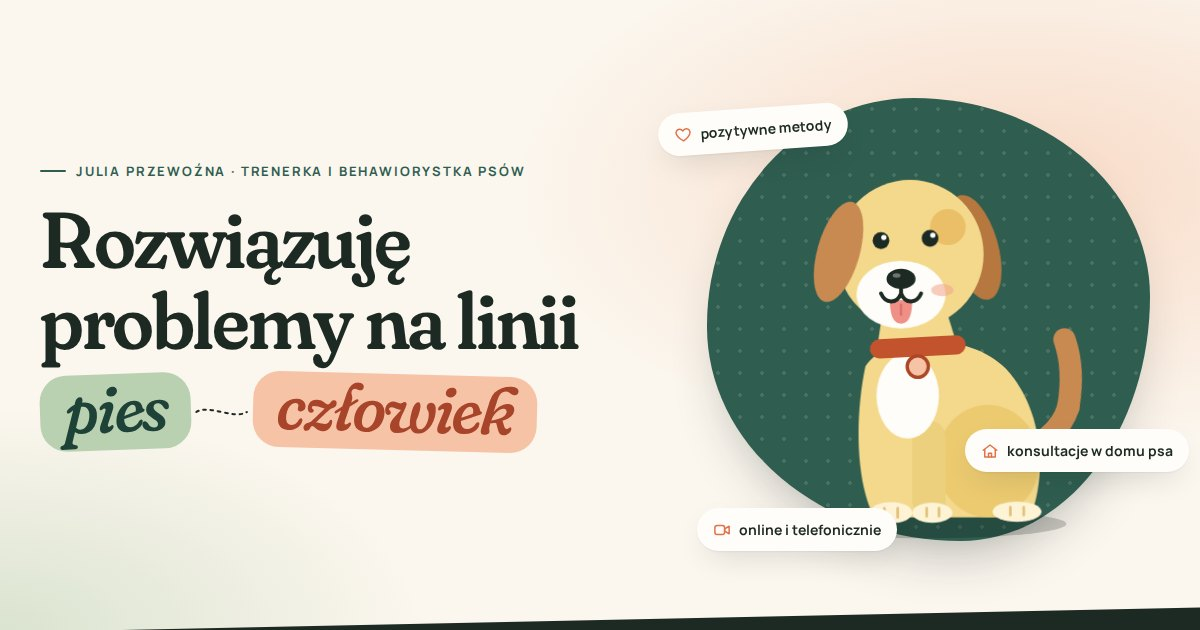
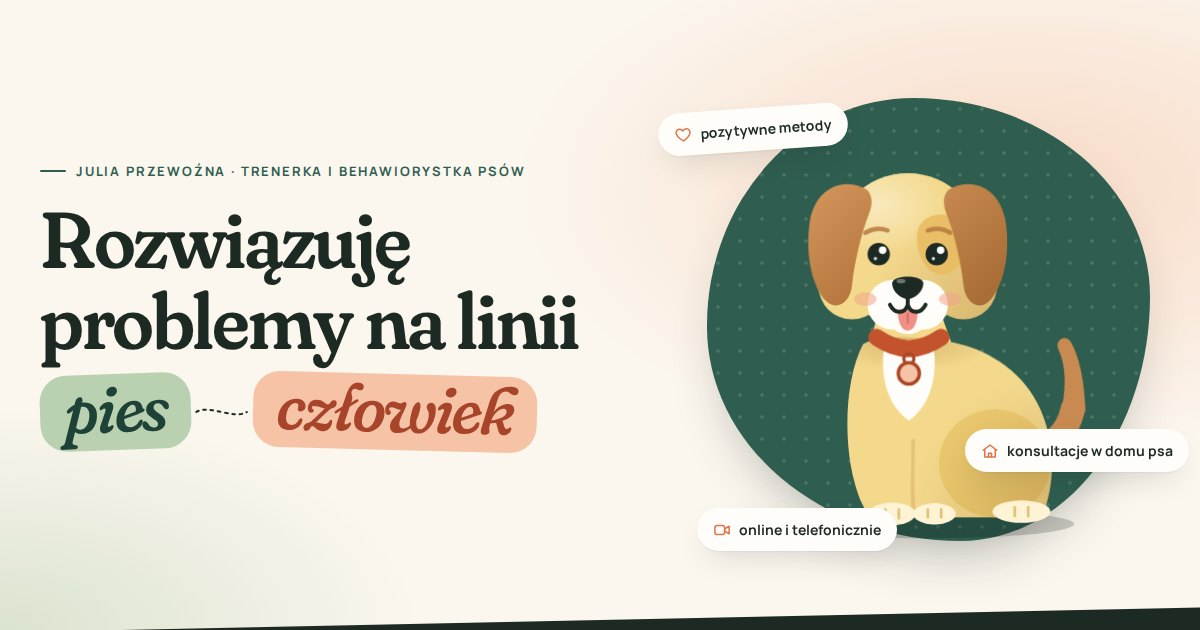
Redraw the hero dog following cute character design principles
Researched mascot/character construction (baby schema, shape language,
flat-vector shading) and rebuilt the illustration on the same animation rig:
- Plumper head with cheek fluff; bigger eyes set lower with double highlights
  and soft brows; rounded-triangle nose; muzzle from two puffs and a chin
- Floppy teardrop ears hanging from the top of the head, with gradients
- One light source (top-left): soft radial shading on the head and body,
  a shadow under the head and a forehead highlight
- Rounded collar band with a ring for the tag, shorter bib-shaped chest patch,
  tapered front legs, correct layering of leg and haunch
- Tapered, sickle-shaped tail tip

Claude-Session: https://claude.ai/code/session_01NNviqpEBqkR5eutCaCypMu

diff --git a/index.html b/index.html
@@ -137,45 +137,70 @@
         <div class="hero__art reveal" aria-hidden="true">
           <div class="hero__blob"></div>
           <svg class="dog" viewBox="0 0 400 420" role="img">
-            <ellipse class="dog__shadow" cx="205" cy="392" rx="128" ry="13"/>
+            <defs>
+              <radialGradient id="dog-g-shade" cx="50%" cy="50%" r="50%"><stop offset="0" stop-color="#8a5418" stop-opacity=".26"/><stop offset=".55" stop-color="#8a5418" stop-opacity=".12"/><stop offset="1" stop-color="#8a5418" stop-opacity="0"/></radialGradient>
+              <linearGradient id="dog-g-ear" x1="0" y1="0" x2=".5" y2="1"><stop offset="0" stop-color="#d4975c"/><stop offset="1" stop-color="#b8783f"/></linearGradient>
+              <linearGradient id="dog-g-ear-far" x1="0" y1="0" x2=".5" y2="1"><stop offset="0" stop-color="#c88a50"/><stop offset="1" stop-color="#a96d38"/></linearGradient>
+              <radialGradient id="dog-g-light" cx="50%" cy="50%" r="50%"><stop offset="0" stop-color="#fff" stop-opacity=".42"/><stop offset="1" stop-color="#fff" stop-opacity="0"/></radialGradient>
+              <clipPath id="dog-clip-head"><circle cx="190" cy="148" r="68"/><circle cx="140" cy="180" r="30"/><circle cx="240" cy="180" r="30"/></clipPath>
+              <clipPath id="dog-clip-body"><path d="M150 232 C 134 262, 132 316, 142 354 C 146 370, 152 382, 158 386 L 310 386 C 322 360, 324 318, 306 284 C 290 254, 260 236, 228 230 C 200 226, 168 222, 150 232 Z"/><ellipse cx="268" cy="338" rx="50" ry="48"/></clipPath>
+            </defs>
+            <ellipse class="dog__shadow" cx="208" cy="392" rx="132" ry="13"/>
             <g class="dog__jump">
               <g class="dog__breathe">
                 <g class="dog__tail">
-                  <path d="M282 330 C 310 324, 328 308, 334 288"/>
-                  <g class="dog__tail-tip"><path d="M334 288 C 340 268, 342 246, 338 228"/></g>
+                  <path d="M292 334 C 318 326, 334 310, 338 290"/>
+                  <g class="dog__tail-tip">
+                    <path class="dog__tail-fill" d="M327 293 C 334 272, 338 254, 333 236 C 330 227, 341 222, 345 231 C 352 250, 351 274, 349 293 Z"/>
+                  </g>
                 </g>
-                <path class="dog__neck" d="M168 200 L224 200 L240 252 L160 252 Z"/>
-                <path class="dog__body" d="M152 252 C 142 300, 144 356, 160 386 L 300 386 C 316 344, 310 288, 278 254 C 248 222, 172 220, 152 252 Z"/>
-                <ellipse class="dog__haunch" cx="262" cy="336" rx="46" ry="50"/>
-                <ellipse class="dog__paw dog__paw--back" cx="288" cy="381" rx="22" ry="9"/>
-                <rect class="dog__leg dog__leg--back" x="194" y="300" width="30" height="86" rx="15"/>
-                <rect class="dog__leg" x="160" y="300" width="31" height="86" rx="15.5"/>
-                <ellipse class="dog__paw" cx="175" cy="382" rx="19" ry="9.5"/>
-                <ellipse class="dog__paw dog__paw--back" cx="212" cy="382" rx="18" ry="9"/>
-                <path class="dog__toes" d="M169 378 L169 386 M181 378 L181 386 M207 378 L207 385 M218 378 L218 385 M282 377 L282 384 M294 377 L294 384"/>
-                <ellipse class="dog__chest" cx="190" cy="278" rx="28" ry="38"/>
-                <rect class="dog__collar" x="156" y="226" width="86" height="17" rx="8.5" transform="rotate(-3 199 234)"/>
-                <circle class="dog__tag" cx="199" cy="252" r="9.5"/>
+                <path class="dog__neck" d="M164 200 L 218 200 L 236 250 L 152 250 Z"/>
+                <path class="dog__body" d="M150 232 C 134 262, 132 316, 142 354 C 146 370, 152 382, 158 386 L 310 386 C 322 360, 324 318, 306 284 C 290 254, 260 236, 228 230 C 200 226, 168 222, 150 232 Z"/>
+                <path class="dog__leg dog__leg--back" d="M198 300 C 196 330, 197 360, 199 382 L 227 382 C 229 360, 230 330, 228 300 Z"/>
+                <ellipse class="dog__haunch" cx="268" cy="338" rx="50" ry="48"/>
+                <g clip-path="url(#dog-clip-body)">
+                  <circle class="dog__shade" cx="320" cy="390" r="130"/>
+                  <ellipse class="dog__shade" cx="191" cy="230" rx="78" ry="26"/>
+                </g>
+                <ellipse class="dog__paw dog__paw--back" cx="292" cy="381" rx="26" ry="10"/>
+                <path class="dog__leg-gap" d="M195 318 C 194 340, 194 362, 195 378"/>
+                <path class="dog__leg" d="M160 296 C 158 328, 159 360, 161 382 L 191 382 C 193 360, 194 328, 192 296 Z"/>
+                <ellipse class="dog__paw" cx="176" cy="383" rx="21" ry="10"/>
+                <ellipse class="dog__paw dog__paw--back" cx="214" cy="383" rx="19" ry="9.5"/>
+                <path class="dog__toes" d="M170 379 L170 387 M182 379 L182 387 M208 379 L208 386 M220 379 L220 386 M286 377 L286 385 M298 377 L298 385"/>
+                <path class="dog__chest" d="M170 228 C 164 256, 170 286, 191 300 C 212 286, 218 256, 212 228 Z"/>
+                <path class="dog__collar" d="M162 226 Q 191 246 220 226"/>
+                <circle class="dog__ring" cx="191" cy="245" r="4.5"/>
+                <circle class="dog__tag" cx="191" cy="258" r="9.5"/>
                 <g class="dog__head">
-                  <g class="dog__ear-flop dog__ear-flop--back"><g class="dog__ear dog__ear--back"><ellipse cx="250" cy="146" rx="21" ry="48" transform="rotate(-16 250 146)"/></g></g>
-                  <circle class="dog__skull" cx="192" cy="152" r="66"/>
-                  <g class="dog__ear-flop dog__ear-flop--front"><g class="dog__ear dog__ear--front"><ellipse cx="128" cy="150" rx="19" ry="46" transform="rotate(16 128 150)"/></g></g>
-                  <ellipse class="dog__muzzle" cx="184" cy="188" rx="40" ry="30"/>
-                  <g class="dog__tongue"><path d="M174 193 C 174 208, 178 214, 184 214 C 190 214, 194 208, 194 193 Z"/><path class="dog__tongue-line" d="M184 197 L184 206"/></g>
-                  <path class="dog__mouth" d="M184 180 L184 187 M166 187 C 170 196, 180 197, 184 187 C 188 197, 198 196, 202 187"/>
-                  <ellipse class="dog__nose" cx="184" cy="174" rx="13" ry="9"/>
-                  <ellipse class="dog__nose-shine" cx="180" cy="171" rx="3.5" ry="2"/>
-                  <circle class="dog__spot" cx="226" cy="128" r="16"/>
-                  <ellipse class="dog__blush" cx="221" cy="184" rx="10" ry="5.5"/>
+                  <circle class="dog__skull" cx="190" cy="148" r="68"/>
+                  <circle class="dog__skull" cx="140" cy="180" r="30"/>
+                  <circle class="dog__skull" cx="240" cy="180" r="30"/>
+                  <g clip-path="url(#dog-clip-head)">
+                    <circle class="dog__shade" cx="262" cy="214" r="110"/>
+                    <ellipse class="dog__light" cx="164" cy="108" rx="62" ry="44"/>
+                  </g>
+                  <path class="dog__spot" d="M200 128 C 206 114, 232 112, 240 128 C 248 144, 240 168, 222 170 C 204 172, 194 144, 200 128 Z"/>
+                  <g class="dog__muzzle"><circle cx="176" cy="197" r="22"/><circle cx="204" cy="197" r="22"/><ellipse cx="190" cy="209" rx="18" ry="14"/></g>
+                  <ellipse class="dog__blush" cx="152" cy="192" rx="10" ry="6"/>
+                  <ellipse class="dog__blush" cx="228" cy="192" rx="10" ry="6"/>
+                  <g class="dog__tongue"><path d="M181 201 C 181 214, 185 220, 190 220 C 195 220, 199 214, 199 201 Z"/><path class="dog__tongue-line" d="M190 205 L190 213"/></g>
+                  <path class="dog__mouth" d="M190 191 L190 197 M174 197 C 178 205, 187 206, 190 197 C 193 206, 202 205, 206 197"/>
+                  <path class="dog__nose" d="M176 178 C 176 170, 204 170, 204 178 C 204 186, 195 192, 190 192 C 185 192, 176 186, 176 178 Z"/>
+                  <ellipse class="dog__nose-shine" cx="184" cy="176" rx="4" ry="2"/>
+                  <path class="dog__brows" d="M152 133 Q162 127 172 131 M208 131 Q218 127 228 133"/>
                   <g class="dog__eyes"><g class="dog__pupils">
-                    <circle cx="166" cy="140" r="7.5"/><circle cx="210" cy="138" r="7.5"/>
-                    <circle class="dog__shine" cx="168.5" cy="137.2" r="2.4"/><circle class="dog__shine" cx="212.5" cy="135.2" r="2.4"/>
+                    <circle cx="164" cy="152" r="10"/><circle cx="216" cy="152" r="10"/>
+                    <circle class="dog__shine" cx="167.5" cy="148.5" r="3.4"/><circle class="dog__shine" cx="219.5" cy="148.5" r="3.4"/>
+                    <circle class="dog__shine dog__shine--small" cx="161" cy="156" r="1.5"/><circle class="dog__shine dog__shine--small" cx="213" cy="156" r="1.5"/>
                   </g></g>
-                  <path class="dog__lids" d="M157 141 Q166 148 175 141 M201 139 Q210 146 219 139"/>
+                  <path class="dog__lids" d="M153 152 Q164 160 175 152 M205 152 Q216 160 227 152"/>
+                  <g class="dog__ear-flop dog__ear-flop--back"><g class="dog__ear dog__ear--back"><path d="M232 92 C 252 84, 274 96, 278 124 C 282 152, 276 180, 264 193 C 254 203, 242 196, 240 180 C 238 160, 232 134, 224 114 C 220 102, 224 94, 232 92 Z"/></g></g>
+                  <g class="dog__ear-flop dog__ear-flop--front"><g class="dog__ear dog__ear--front"><path d="M148 92 C 128 84, 106 96, 102 124 C 98 152, 104 180, 116 193 C 126 203, 138 196, 140 180 C 142 160, 148 134, 156 114 C 160 102, 156 94, 148 92 Z"/></g></g>
                 </g>
               </g>
             </g>
-            <g class="dog__zzz"><text x="256" y="100">z</text><text x="284" y="70">z</text><text x="318" y="36">Z</text></g>
+            <g class="dog__zzz"><text x="258" y="96">z</text><text x="284" y="66">z</text><text x="316" y="36">Z</text></g>
           </svg>
           <div class="bark">Hau!</div>
           <div class="sticker sticker--a"><svg viewBox="0 0 24 24"><use href="#i-heart"/></svg>pozytywne metody</div>

diff --git a/styles.css b/styles.css
@@ -266,12 +266,19 @@ body.menu-open { overflow: hidden; }
 .dog__shadow { fill: rgba(0,0,0,.18); }
 .dog__body, .dog__leg, .dog__skull, .dog__neck { fill: var(--butter); }
 .dog__haunch { fill: #ecca70; }
-.dog__leg--back { fill: #ecd07d; }
+.dog__leg--back { fill: var(--butter); }
+.dog__leg-gap { fill: none; stroke: #9a5f1c; stroke-width: 3.5; stroke-linecap: round; opacity: .18; }
 .dog__paw--back { fill: #f7e6bd; }
 .dog__toes { fill: none; stroke: #e2c27a; stroke-width: 2.4; stroke-linecap: round; }
 .dog__chest, .dog__muzzle { fill: var(--paper); }
-.dog__ear, .dog__ear ellipse { fill: #c98a52; }
-.dog__ear--back ellipse { fill: #b77840; }
+.dog__ear path { fill: url(#dog-g-ear); }
+.dog__ear--back path { fill: url(#dog-g-ear-far); }
+.dog__shade { fill: url(#dog-g-shade); }
+.dog__light { fill: url(#dog-g-light); }
+.dog__brows { fill: none; stroke: #b77840; stroke-width: 4; stroke-linecap: round; opacity: .85; }
+.dog__ring { fill: none; stroke: var(--accent-deep); stroke-width: 3; }
+.dog__tail-fill { fill: #c98a52; }
+.dog__shine--small { opacity: .8; }
 .dog__spot { fill: #e9bb63; opacity: .9; }
 .dog__nose { fill: var(--ink); }
 .dog__eyes circle { fill: var(--ink); }
@@ -295,26 +302,26 @@ body.menu-open { overflow: hidden; }
 .dog__tongue path { fill: #ef8f86; }
 .dog__tongue .dog__tongue-line { fill: none; stroke: #d9706a; stroke-width: 2; stroke-linecap: round; }
 .dog__nose-shine { fill: #fff; opacity: .35; }
-.dog__collar { fill: var(--accent); }
+.dog__collar { fill: none; stroke: var(--accent); stroke-width: 15; stroke-linecap: round; }
 .dog__tag { fill: var(--peach); stroke: var(--accent-deep); stroke-width: 3; }
-.dog__tail path { fill: none; stroke: #c98a52; stroke-width: 20; stroke-linecap: round; }
-.dog__tail { transform-origin: 282px 330px; transform-box: view-box; animation: wag 520ms ease-in-out infinite alternate; }
+.dog__tail > path { fill: none; stroke: #c98a52; stroke-width: 22; stroke-linecap: round; }
+.dog__tail { transform-origin: 292px 334px; transform-box: view-box; animation: wag 520ms ease-in-out infinite alternate; }
 /* końcówka ogona spóźnia się o ćwierć ruchu – efekt bicza (follow-through) */
-.dog__tail-tip { transform-origin: 334px 288px; transform-box: view-box; animation: wagTip 520ms ease-in-out 120ms infinite alternate; }
+.dog__tail-tip { transform-origin: 338px 290px; transform-box: view-box; animation: wagTip 520ms ease-in-out 120ms infinite alternate; }
 @keyframes wagTip { from { transform: rotate(-12deg); } to { transform: rotate(14deg); } }
 .hero__art.is-excited .dog__tail, .hero__art.is-excited .dog__tail-tip { animation-duration: 230ms; }
 .hero__art.is-sleepy .dog__tail, .hero__art.is-sleepy .dog__tail-tip { animation-duration: 1800ms; }
 
 /* oddech: całe ciało lekko „rośnie” od podłogi */
-.dog__jump, .dog__breathe { transform-box: view-box; transform-origin: 205px 388px; }
+.dog__jump, .dog__breathe { transform-box: view-box; transform-origin: 208px 388px; }
 .dog__breathe { animation: breathe 3600ms ease-in-out infinite; }
 @keyframes breathe { 0%, 100% { transform: scale(1, 1); } 50% { transform: scale(1.006, 1.016); } }
 .hero__art.is-sleepy .dog__breathe { animation-duration: 5200ms; }
 .dog__shadow { transform-box: fill-box; transform-origin: center; }
 
-.dog__ear-flop--front { transform-origin: 140px 106px; transform-box: view-box; }
-.dog__ear-flop--back { transform-origin: 240px 104px; transform-box: view-box; }
-.dog__ear--back { transform-origin: 240px 104px; transform-box: view-box; }
+.dog__ear-flop--front { transform-origin: 146px 96px; transform-box: view-box; }
+.dog__ear-flop--back { transform-origin: 234px 96px; transform-box: view-box; }
+.dog__ear--back { transform-origin: 238px 96px; transform-box: view-box; }
 
 /* sen po dłuższej bezczynności */
 .dog__lids { fill: none; stroke: var(--ink); stroke-width: 3.5; stroke-linecap: round; opacity: 0; transition: opacity 250ms ease; }
@@ -333,11 +340,11 @@ body.menu-open { overflow: hidden; }
 /* poza ekranem nic się nie rusza */
 .hero__art.is-paused, .hero__art.is-paused * { animation-play-state: paused !important; }
 @keyframes wag { from { transform: rotate(-14deg); } to { transform: rotate(16deg); } }
-.dog__eyes { transform-origin: 188px 139px; transform-box: view-box; }
-.dog__head { transform-origin: 192px 220px; transform-box: view-box; will-change: transform; }
-.dog__ear--front { transform-origin: 140px 104px; transform-box: view-box; animation: ear 6s ease-in-out infinite; }
+.dog__eyes { transform-origin: 190px 152px; transform-box: view-box; }
+.dog__head { transform-origin: 190px 224px; transform-box: view-box; will-change: transform; }
+.dog__ear--front { transform-origin: 142px 96px; transform-box: view-box; animation: ear 6s ease-in-out infinite; }
 @keyframes ear { 0%, 80%, 100% { transform: rotate(0); } 86% { transform: rotate(8deg); } 92% { transform: rotate(-3deg); } }
-.dog__tongue { transform-origin: 184px 193px; transform-box: view-box; animation: pant .9s ease-in-out infinite alternate; }
+.dog__tongue { transform-origin: 190px 201px; transform-box: view-box; animation: pant .9s ease-in-out infinite alternate; }
 @keyframes pant { from { transform: scaleY(.85); } to { transform: scaleY(1.1); } }
 
 .sticker {

diff --git a/app.js b/app.js
@@ -189,7 +189,7 @@
       if (!visible || e.pointerType === "touch") return;
       lastPointer = Date.now();
       var r = dogSvg.getBoundingClientRect(), sc = r.width / 400;
-      var dx = e.clientX - (r.left + 188 * sc), dy = e.clientY - (r.top + 139 * sc);
+      var dx = e.clientX - (r.left + 190 * sc), dy = e.clientY - (r.top + 152 * sc);
       var d = Math.hypot(dx, dy) || 1, k = Math.min(d / 260, 1) * 4;
       eyeX.t = dx / d * k; eyeY.t = dy / d * k;
       var near = Math.max(0, 1 - d / (r.width * 1.4));
